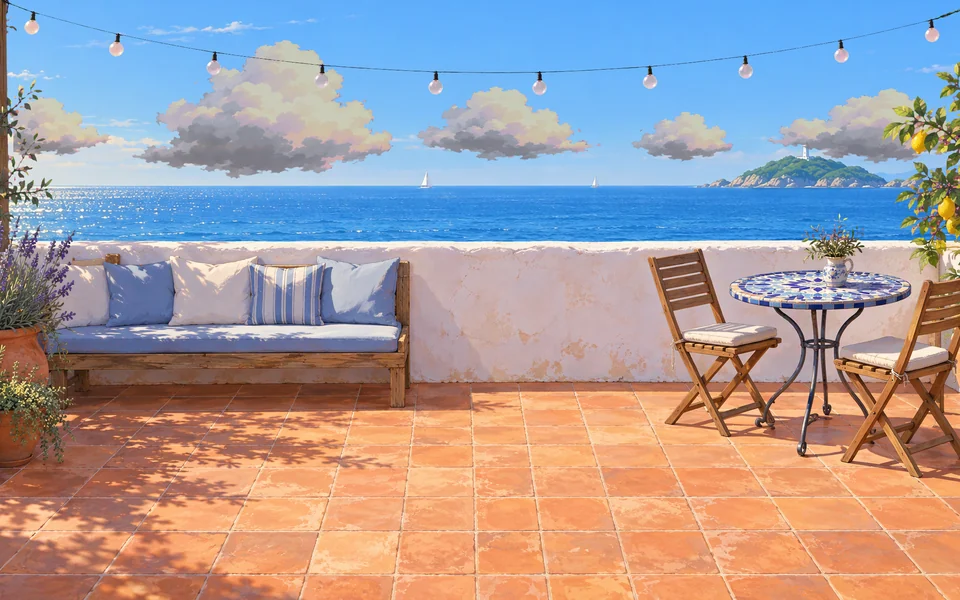
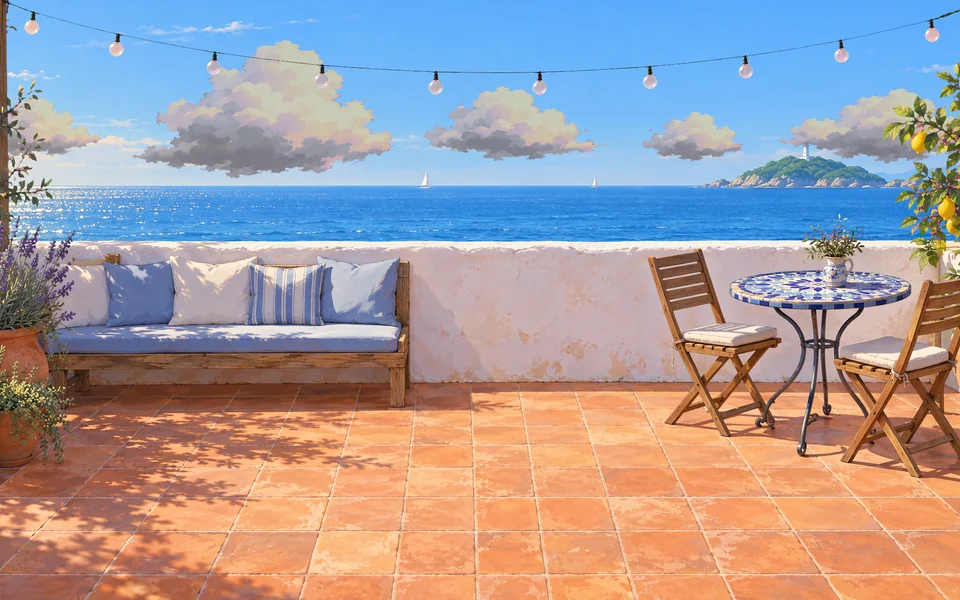
🐛 海边露台 1.0.1：云层按整朵云等距重排，横向循环不再露出竖直切边，已上传 CDN（T-13663）
- art/post.py：不再把云带左右各 160px 的 alpha 清零（1.0.0 在 x=160 / 2400 把两朵云竖着切掉一截）；按列切出五朵整云、等间距排开、首尾各留半个间距，左右两列全透明，两份并排循环时接缝处的间距和云之间一样；断言左右边缘透明
- pack/clouds.webp、preview.webp、cover.webp、screenshots/01-day、02-dusk 重新生成；其他图层不变
- manifest 1.0.1、CHANGELOG 加 1.0.1 一节（1.0.0 不改）、README 版本号
- catalog.json：build.js 写入 1.0.1，publish.js 上传 CDN 并回下比对 sha256 a3347ffc… 后标 published

diff --git a/games/seaside-terrace/art/post.py b/games/seaside-terrace/art/post.py
@@ -3,7 +3,7 @@
 用法（在仓库根目录）：uv run --with pillow --with numpy python3 games/seaside-terrace/art/post.py
 - 天空（sky-day / sky-night）：整张不透明，缩放到画布 2560×1440。
 - 露台（terrace-day / terrace-night）、云（clouds）：原图里天空是纯品红 #FF00FF，抠成透明，边缘去品红溢色。
-- 云：抠出来的云带放到画布上方（天空那一段），左右两边留透明，横向循环时没有接缝。
+- 云：抠出来的云带放到画布上方（天空那一段），按整朵云等间距重排、左右两边自然透明，两份并排横向循环时没有接缝（1.0.0 在 x=160 / 2400 硬切了两朵云，见 CHANGELOG 1.0.1）。
 - 商店图：按 manifest 的图层顺序合成；黄昏图套一层暖色（应用里 sky.tint 做的事），雨图加几道雨丝。
 画面里没有她：她由应用的 wallpaper@1 引擎用角色包的动作画在露台上（pet.area）。
 """
@@ -57,6 +57,32 @@ def key_magenta(img, glow=None):
     return rgba
 
 
+def tile_clouds(band):
+    """云带 → 横向可平铺：按「这一列有没有云」切出一朵朵整云（间隙 ≥ 8px 才算两朵，云里的小碎块跟着它那朵），
+    等间距排开，首尾各留半个间距。返回同宽的云带，左右两列全透明。"""
+    a = np.asarray(band)
+    on = a[..., 3].max(axis=0) > 4
+    runs, x = [], 0
+    while x < len(on):
+        if on[x]:
+            x0 = x
+            while x < len(on) and on[x:x + 8].any():
+                x += 1
+            runs.append((x0, x))
+        x += 1
+    total = sum(x1 - x0 for x0, x1 in runs)
+    gap = (band.size[0] - total) / len(runs)
+    if gap < 24:
+        raise SystemExit(f'clouds too wide to tile: {total}px of clouds in {band.size[0]}px')
+    out = np.zeros_like(a)
+    cx = gap / 2
+    for x0, x1 in runs:
+        at = int(round(cx))
+        out[:, at:at + x1 - x0] = a[:, x0:x1]
+        cx += x1 - x0 + gap
+    return Image.fromarray(out, 'RGBA')
+
+
 def save(img, name, lossless=False):
     p = os.path.join(PACK, name)
     img.save(p, 'WEBP', quality=90, alpha_quality=100, method=6, lossless=lossless, exact=lossless)
@@ -73,16 +99,16 @@ def main():
     sky_day, sky_night = sky(raw('sky-day')), sky(raw('sky-night'))
     terr_day, terr_night = key_magenta(up(raw('terrace-day'))), key_magenta(up(raw('terrace-night')), glow=(255, 206, 128))
 
-    # 云：抠图后取有云的那几行，放到画布 y≈90 处；左右各留 160px 透明，循环不露接缝
+    # 云：抠图后取有云的那几行，放到画布 y≈90 处。原图里五朵云左右互不重叠：按列切成整朵（不切进云里），
+    # 再等间距重新排开，最左、最右各留半个间距的透明——两份并排循环时，接缝处的间距和云之间的一样，看不出接缝
     cl = key_magenta(up(raw('clouds')))
     rows = np.where(np.asarray(cl.getchannel('A')).max(axis=1) > 8)[0]
     band = cl.crop((0, max(0, rows.min() - 8), W, min(H, rows.max() + 8)))
     band = band.resize((W, int(band.size[1] * 0.75)), Image.LANCZOS)
-    a = np.asarray(band).copy()
-    a[:, :160, 3] = 0
-    a[:, -160:, 3] = 0
     clouds = Image.new('RGBA', (W, H), (0, 0, 0, 0))
-    clouds.alpha_composite(Image.fromarray(a, 'RGBA'), (0, 90))
+    clouds.alpha_composite(tile_clouds(band), (0, 90))
+    al = np.asarray(clouds.getchannel('A'))
+    assert al[:, 0].max() == 0 and al[:, -1].max() == 0, 'clouds must be transparent at the left / right edge'
 
     save(sky_day, 'sky-day.webp')
     save(sky_night, 'sky-night.webp')

diff --git a/README.md b/README.md
@@ -7,7 +7,7 @@
 | [像素小院](games/pixel-yard) | 见 [`catalog.json`](catalog.json) | 一座漂在空中的等距像素小院：她自己逛、种菜、摘浆果、抓萤火虫；时段和天气可调；每天三件小事，完成加好感 |
 | [她的房间](games/her-room) | 1.0.2（需要应用 0.28.0，引擎 `illustrated-room@1`） | 日系手绘插画的深夜房间：下雨、蓝色月光、台灯开关。她有七个专门画的姿势，在聊天里叫她做什么，她就去做。本版开放大肥鱼的「鲸鱼女仆的雨夜小屋」 |
 | [像素房间](games/pixel-room) | 1.0.0（需要应用 0.28.0，引擎 `room@1`） | 每位角色一间自己风格的房间：陪她睡觉、工作、看手机、听音乐、打游戏。本版开放大肥鱼的「鲸鱼女仆的蓝色小屋」，另外四间即将开放 |
-| [海边露台](games/seaside-terrace) | 1.0.0（**壁纸**，需要应用 0.29.0，引擎 `wallpaper@1`） | 第一张动态壁纸：海边的白色屋顶露台，她住在桌面背景里自己散步、坐长椅、看海，夜里在长椅上睡着；白天晴空和飘过的云，夜里星空、月光和灯串。桌面图标和窗口都在她上面，按 Ctrl+Alt+P 叫她出来 |
+| [海边露台](games/seaside-terrace) | 1.0.1（**壁纸**，需要应用 0.29.0，引擎 `wallpaper@1`） | 第一张动态壁纸：海边的白色屋顶露台，她住在桌面背景里自己散步、坐长椅、看海，夜里在长椅上睡着；白天晴空和飘过的云，夜里星空、月光和灯串。桌面图标和窗口都在她上面，按 Ctrl+Alt+P 叫她出来 |
 
 「像素房间」开发时叫「她的房间」，上架前改了名（id `pixel-room`）；「她的房间」这个名字和 `her-room` 这个 id 现在是插画风新游戏。
 

diff --git a/games/seaside-terrace/CHANGELOG.md b/games/seaside-terrace/CHANGELOG.md
@@ -1,5 +1,9 @@
 # 海边露台 · 更新记录
 
+## 1.0.1 · 2026-11-07
+
+修好飘动的云：上一版有两朵云在画面左右两侧被竖着切掉一截，云飘过来时能看到一条笔直的边。这版每朵云都是完整的，五朵云等距排开，飘出右边又从左边进来时，接上的地方和云之间的空隙一样宽，看不出接缝。其余画面、她能走的地方和停留点都没有变。
+
 ## 1.0.0 · 2026-11-07
 
 第一版，也是商店里的第一张壁纸：海边一座刷白的屋顶露台，赤陶地砖、浅蓝靠垫的长椅、马赛克小圆桌、柠檬树和薰衣草，远处海平线上有座带灯塔的小岛。设为壁纸后她住在露台上，自己散步、坐长椅、靠在墙边看海，夜里在长椅上睡着；桌面图标和窗口都在她上面，壁纸点不到她，按 Ctrl+Alt+P 叫她出来。白天是晴空和闪着阳光的海，云慢慢飘过；夜里换成星空、月光和亮起来的灯串、灯塔，时段跟着电脑时钟走，可以下雨。需要应用 0.29.0（壁纸引擎 `wallpaper@1`）。

diff --git a/games/seaside-terrace/art/README.md b/games/seaside-terrace/art/README.md
@@ -8,7 +8,7 @@
 | --- | --- |
 | `prompts.json` | 提示词（下面原文列出），`style` 和 `terrace` 会拼进每条 |
 | `generate.py` | 逐张出图（一次一张、间隔 20 秒）；带 `refs` 的那条先上传参考图，再用编辑模式重画（夜景沿用白天的构图） |
-| `post.py` | 原图 → `pack/` 的图层与预览、`cover.webp`、`screenshots/`：品红抠透明、天空裁到海平线在 31%、云带放到上方并左右留透明（横向循环无缝）、夜里灯泡光晕染成暖光 |
+| `post.py` | 原图 → `pack/` 的图层与预览、`cover.webp`、`screenshots/`：品红抠透明、天空裁到海平线在 31%、云带放到上方并左右留透明（按整朵云等距重排、左右边缘透明，横向循环无缝）、夜里灯泡光晕染成暖光 |
 | `raw/*.webp` | 原图（无损 WebP，2048×1152） |
 
 ## 重新生成
